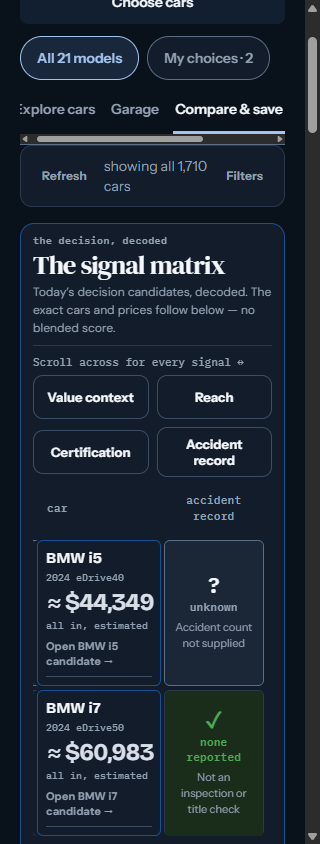
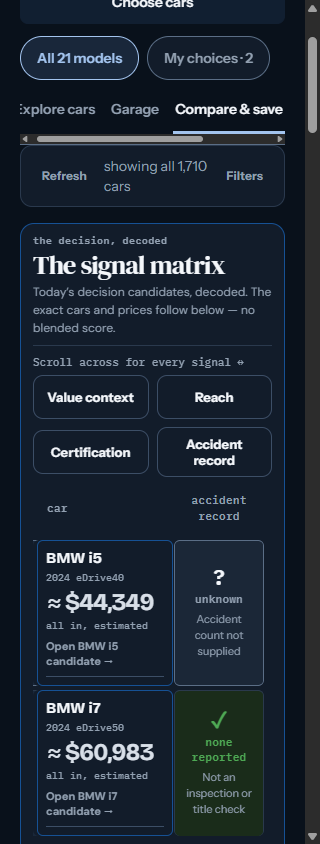
Preserve matrix price width with fallback fonts

Changed region(s): [[0.4688, 0.6469, 0.7812, 1.0], [0.5938, 0.5853, 0.7812, 0.6161]]

diff --git a/docs/market-studio.css b/docs/market-studio.css
@@ -785,13 +785,7 @@
  * outside the port after a jump, or under identity at the far-right endpoint. */
 @media screen and (max-width: 360px) {
   .market-studio #decision-matrix {
-    min-width: 550px;
-  }
-
-  .market-studio #decision-matrix thead th:first-child,
-  .market-studio #decision-matrix tbody th {
-    width: 124px;
-    min-width: 124px;
+    min-width: 520px;
   }
 
   .market-studio #decision-matrix thead th {

diff --git a/tools/evidence/matrix-qualification/README.md b/tools/evidence/matrix-qualification/README.md
@@ -21,8 +21,11 @@ line is x=183.19–284.31: 12.31px outside the scrollport. At maximum scroll
 (419), it is x=152.19–253.31: 20.81px under the fixed identity. The TD also has
 overflow:hidden; its DOM presence is not evidence of readable text.
 
-The screen-only correction at ≤360px uses a 550px table and 124px identity,
-allowing one complete wrapping criterion beside identity, including gutters.
+The screen-only correction at ≤360px uses a 520px table and preserves the
+136px identity, allowing one complete wrapping criterion beside identity,
+including gutters. At both jump and maximum scroll (289), the final 90px
+criterion occupies x=174–264, beyond the identity's x=173 painted boundary
+and inside the x=272 scrollport edge. Header labels wrap without smaller type.
 It changes no text, typography size, semantics, candidates or shared assets.
 
 | State | Before | After |
